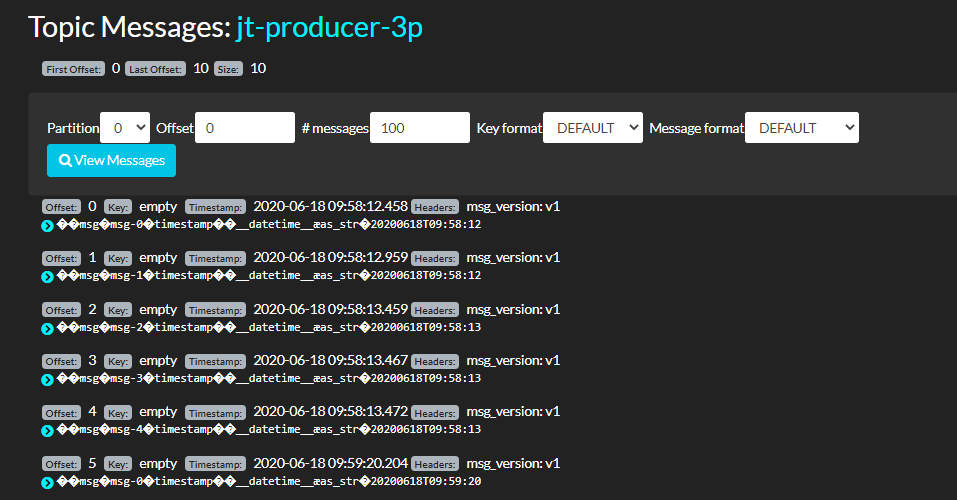
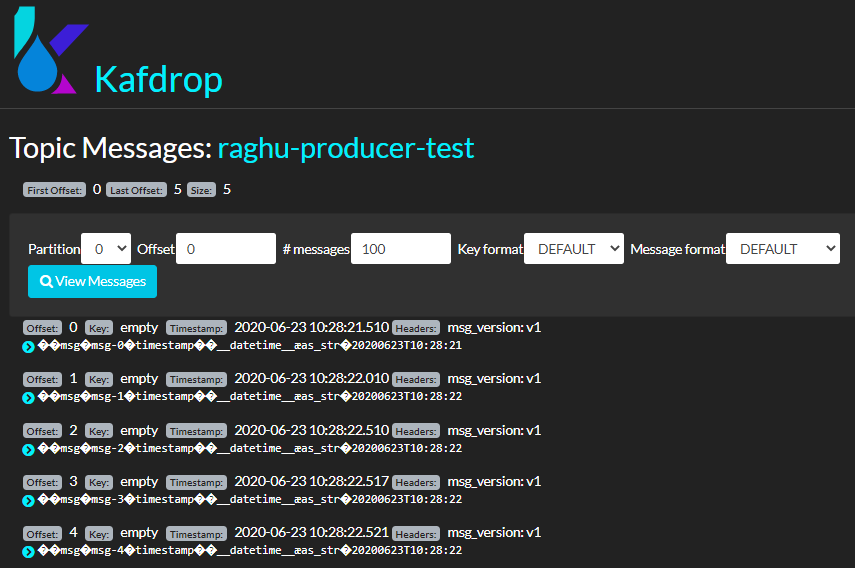
final version

Changed region(s): [[0.0304, 0.39, 1.0, 0.99], [0.0, 0.21, 0.9123, 0.36], [0.0, 0.0, 0.4561, 0.18]]

diff --git a/kafka-producer-n-monitoring-tools/code/essentials.py b/kafka-producer-n-monitoring-tools/code/essentials.py
@@ -29,4 +29,4 @@ def get_kafka_ins():
 
 
 def get_topic():
-    return 'jt-producer-3p'
+    return 'raghu-producer-test'

diff --git a/kafka-producer-n-monitoring-tools/readme.md b/kafka-producer-n-monitoring-tools/readme.md
@@ -66,6 +66,13 @@ Kafdrop is an opensource web UI for viewing Kafka topics and browsing consumer g
 </p>
 
 #### Example screen how a KafDrop looks like
+ - Home Screen
+Home Screen not only covers the overview, but it also has information about the Brokers and topics available in the cluster
+
+
+ - Topic Page
+Reveals all partitions info of the topic and renders the list of consumer groups subscribed to the topic
+
 
 #### Features
  - List all topics of the cluster
@@ -112,9 +119,11 @@ P.produce(
 P.poll(0.01)
 ```
 
-*Note: Refer code samples in my GitHub [repo](https://github.com/nraghu)
+*Note: Refer code samples in my GitHub [repo](https://github.com/n-raghu/journals/tree/master/kafka-producer-n-monitoring-tools/code)*
 
 #### Snapshot of Kafdrop
+
+
 
 ### Best Practices
 Before we close, I would like to mention some of the best practices
